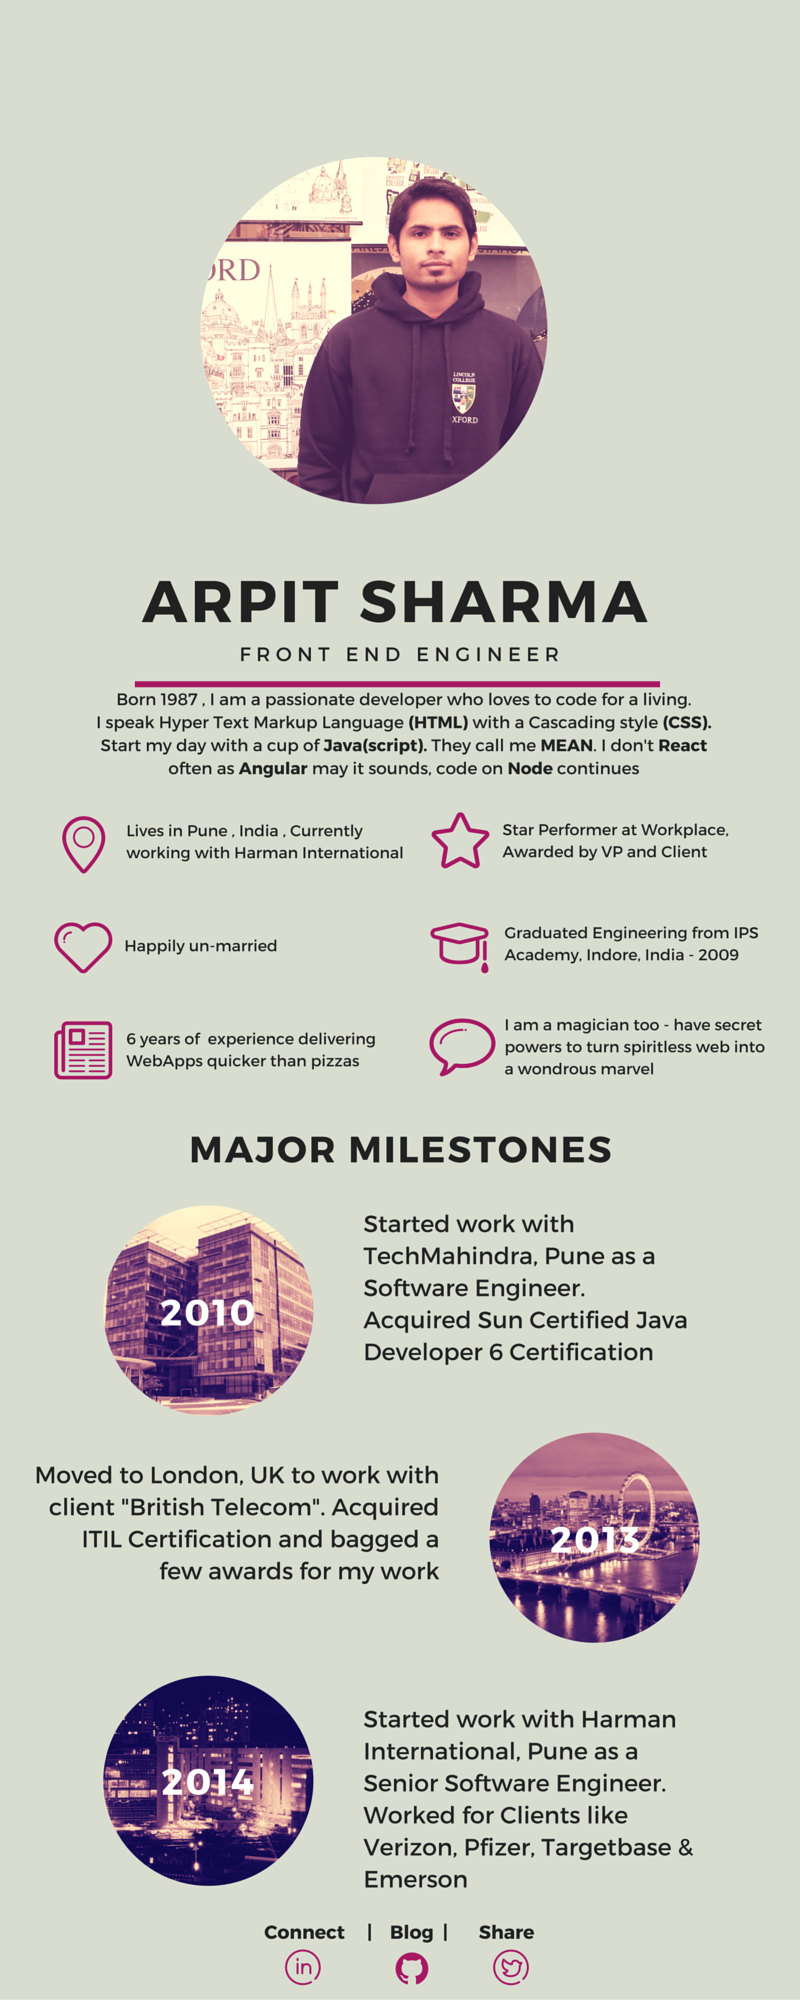
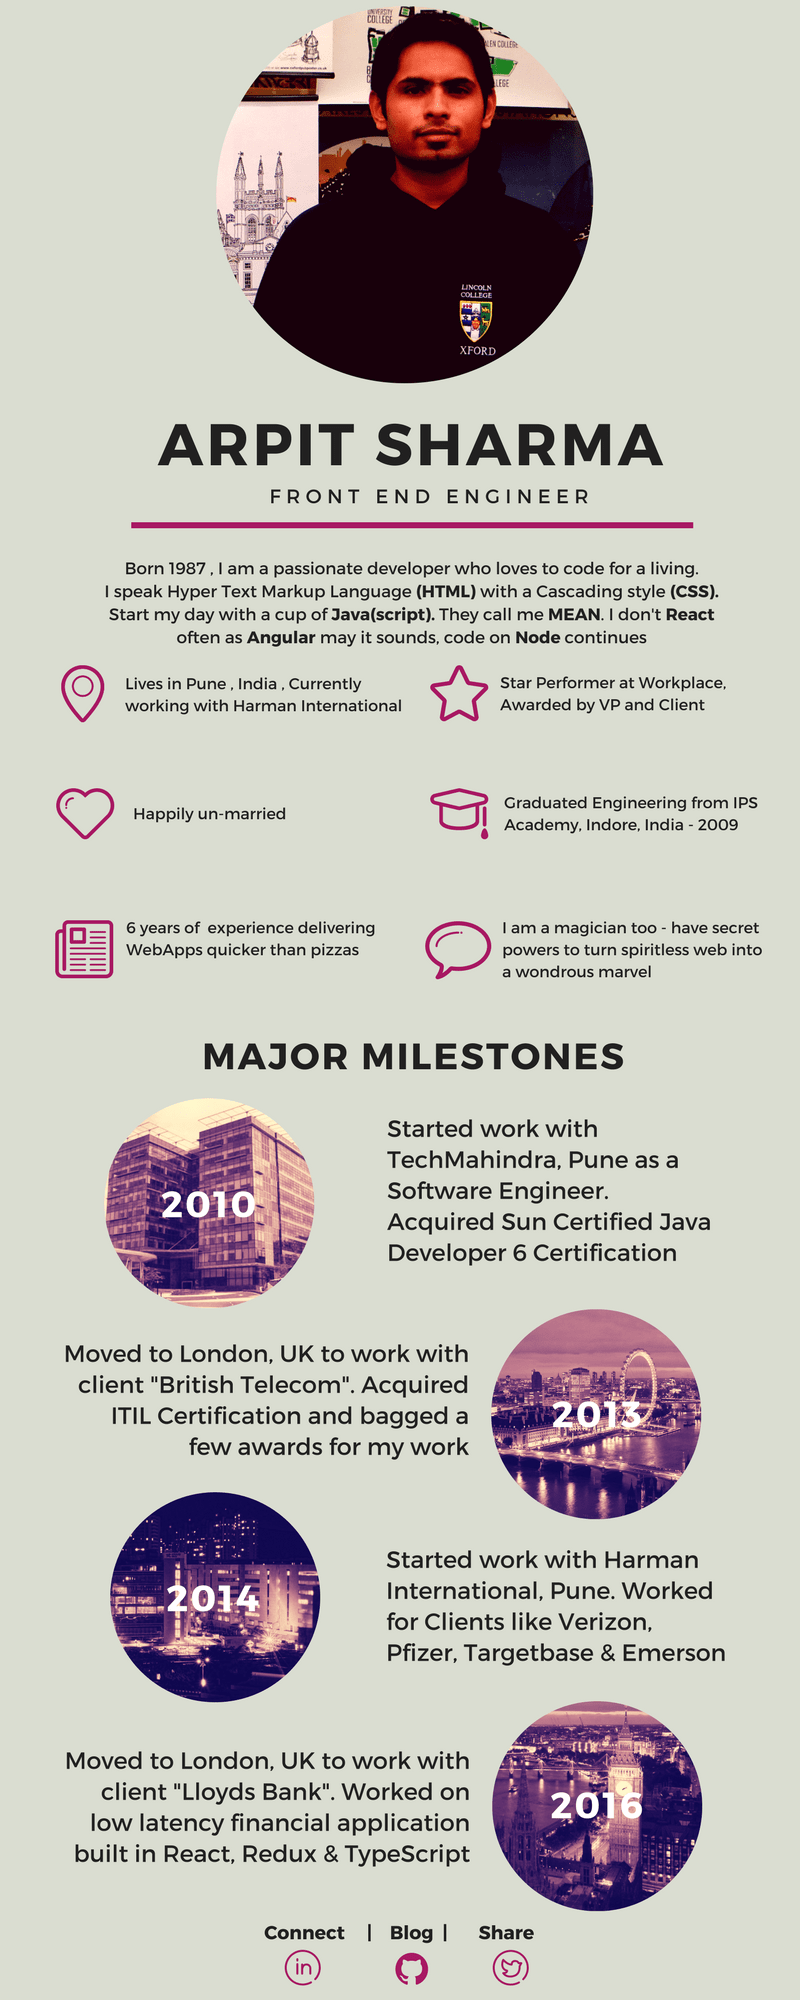
Updated pf image to include 2016 timeline

diff --git a/home.html b/home.html
@@ -1,140 +1,77 @@
 <!DOCTYPE html>
 <html>
+
 <head>
-	<title>Blog</title>
-	<link rel="stylesheet" type="text/css" href="assets/style.css">
-  <!-- commenting cdn, using cutom minified	<link rel="stylesheet" type="text/css" href="https://maxcdn.bootstrapcdn.com/bootstrap/3.3.6/css/bootstrap.min.css"> -->
-  <link rel="stylesheet" type="text/css" href="assets/bootstrap.min.css">
+    <title>Blog</title>
+    <link rel="stylesheet" type="text/css" href="assets/style.css">
+    <!-- commenting cdn, using cutom minified <link rel="stylesheet" type="text/css" href="https://maxcdn.bootstrapcdn.com/bootstrap/3.3.6/css/bootstrap.min.css"> -->
+    <link rel="stylesheet" type="text/css" href="assets/bootstrap.min.css">
 </head>
+
 <body>
-  <div class="container">
-   <div class="row">
-    <div class="profile-header-container">   
-      <div class="profile-header-img">
-        <img class="img-circle" src="assets/images/myimage.jpg" />
-        <!-- badge -->
-        <div class="rank-label-container">
-          <span class="label label-default rank-label">Arpit Sharma</span>
-        </div>
-      </div>
-    </div> 
-
-
-    <section>
-
-      <article>
-     <div class="page-header">
-          <h1>Difference between article and section</h1>
-          <p class="date-holder">Posted 05<sup>th</sup>April 2016</p>
-
-
-      <h3>Beginner's Trouble</h3>
-      <p>
-        Being a UI Developer is not an easy job, it often makes you wonder if you should follow the best practices or stay with whatever gets your job done quickly. 
-
-        While marking up this Blog I was faced with a challenge of using semantics over traditional div's. I decided to go with semantics. 
-        </br>
-        </br>
-        Now, to follow semantics, I thought W3C HTML5 specs would help me. But, Its an overdose of information for a regular UI developer like me. I then moved to WHATWG's live standard, though it's better than W3C but its still a lot of information to digest.</p>
-
-        <em> Do you understand this:</em>
-
-          <div class="quote-container">
-            <q class="quote-text"><i>The section element represents a generic section of a document or application. A section, in this context, is a thematic grouping of content. The theme of each section should be identified, typically by including a heading (h1-h6 element) as a child of the section element.</i></q>
-          </div>
-
-      <p>
-        Frankly above dint made much sense to me. I need either a one liner explanation or a real world example. Thankfully I found an article on iandevlin's blog which has a nice analogy of newspaper section and articles.
-
-        A newspaper has many sections like Politics, Finance , Editorial - which I avoid reading.
-        A section may contain  a few articles like "Minister A said xxx to Minister B" and "Minister B found roaming with A's wife" etc.  
-
-        A section can contain many articles and now the weired part: article may contain more sections followed by more articles. 
-        </br>
-        </br>
-        Nevertheless the newspaper analogy gives us a clear picture and easy to understand pattern for our use.
-
-        Below is how I arranged my sections :
-        </p>
-
-        <div class="image-container">
-          <img src="assets/images/sectionArticle.jpg" class="img-responsive">
-        </div>
-      <br>
-      <br>
-      Hope it helps.
-          
-      </div>
-      </article>
-      <div class="article-divider"></div>
-      <article>
-        <div class="page-header">
-          <h1>Difference between HTML4 & HTML5</h1>
-          <p class="date-holder">Posted 28<sup>th</sup>December 2015</p>
-
-
-
-           <h3>1. HTML5 Is a Work in Progress </h3>
-           <p>
-            As cool as it is to see what HTML5 can do for you, it hasn&#39;t been standardized like HTML4. You don&#39;t have to worry about updating pages built using HTML4. It&#39;s more than ten years old and it&#39;s a set standard.
-
-            If you jump into HTML5 with both feet, you&#39;re going to be making updates. Elements and attributes are added and modified several times a year. Of course, this is dependent how much you depend on rich elements, but it&#39;s certainly a risk you must take into consideration when using a fluid language.
-
-            Build with HTML4, play with HTML5.
-          </p>
-          <h3>2. Simplified Syntax </h3>
-
-          The simpler doctype declaration is just one of the many novelties in HTML5. Now you need to write only: <!doctype html> and this is it. The syntax of HTML5 is compatible with HTML4 and XHTML1, but not with SGML.
-
-          <h3>3. The New &lt;canvas&gt; Element </h3>
-
-          This is what killed Flash.
-
-          Although it isn&#39;t as … uh … flashy … most assume that it will eventually make Flash obsolete.
-
-          Only time will tell.
-
-          <h3>4. The &lt;header&gt; and &lt;footer&gt; Elements </h3>
-
-          For good or bad, HTML5 has acknowledged the new web anatomy. With HTML5, &lt;header&gt; and &lt;footer&gt; are specifically marked for such. Because of this, it is unnecessary to identify these two elements with a &lt;div&gt; tag.
-
-          <h3>5. New &lt;section&gt; and &lt;article&gt; Elements </h3>
-
-          Again, HTML5 has adopted the popular web standard. &lt;section&gt; and &lt;article&gt; allows you to mark specific areas of your layout as such, and should have a positive effect on on your SEO in the end.
-
-          <h3>6. New &lt;menu&gt; and &lt;figure&gt; Elements </h3>
-
-          &lt;menu&lt; can be used for your main menu, but it can also be used for toolbars and context menus. The &lt;figure&gt; element is another way to arrange text and images.
-
-          <h3>7. New &lt;audio&gt; and &lt;video&gt; Elements </h3>
-
-          Embedind audio and video has never been easier.
-
-          There are also some new multimedia elements and attributes, such as &lt;track&gt;, that provides text tracks for the video element. With these additions HTML5 is definitely getting more and more Web 2.0-friendly. The problem is that by the time HTML5 becomes widely accepted, Web 2.0 might be old news.
-
-          <h3>8. New Forms</h3>
-
-          The new &lt;form&gt; and &lt;forminput&gt; elements are looking good. If you do much with forms, you may want to take a look at what these have to offer. 
-
-          <h3>9. Kiss &lt;b&gt; and &lt;font&gt; Goodbye!</h3>
-
-          CSS, all the time.
-
-          All the time, CSS.
-          <br>
-          <small>
-            <a href="http://churchm.ag/differences-between-html4-html5/" style="color: inherit;">Reference</small>
-
-
+    <div class="container">
+        <div class="row">
+            <div class="profile-header-container">
+                <div class="profile-header-img">
+                    <img class="img-circle" src="assets/images/myimage.jpg" />
+                    <!-- badge -->
+                    <div class="rank-label-container">
+                        <span class="label label-default rank-label">Arpit Sharma</span>
+                    </div>
+                </div>
             </div>
-
-          </div>
+            <section>
+                <article>
+                    <div class="page-header">
+                        <h1>Difference between article and section</h1>
+                        <p class="date-holder">Posted 05<sup>th</sup>April 2016</p>
+                        <h3>Beginner's Trouble</h3>
+                        <p>
+                            Being a UI Developer is not an easy job, it often makes you wonder if you should follow the best practices or stay with whatever gets your job done quickly. While marking up this Blog I was faced with a challenge of using semantics over traditional div's. I decided to go with semantics. </p>
+                        <p>Now to follow semantics, I thought W3C HTML5 specs would help me. But, Its an overdose of information for a regular UI developer like me. I then moved to WHATWG's live standard, though it's better than W3C but its still a lot of information to digest.</p>
+                        <em> Do you understand this:</em>
+                        <div class="quote-container">
+                            <q class="quote-text"><i>The section element represents a generic section of a document or application. A section, in this context, is a thematic grouping of content. The theme of each section should be identified, typically by including a heading (h1-h6 element) as a child of the section element.</i></q>
+                        </div>
+                        <p>
+                            Frankly above dint made much sense to me. I need either a one liner explanation or a real world example. Thankfully I found an article on iandevlin's blog which has a nice analogy of newspaper section and articles. A newspaper has many sections like Politics, Finance , Editorial - which I avoid reading. A section may contain a few articles like "Minister A said xxx to Minister B" and "Minister B found roaming with A's wife" etc. A section can contain many articles and now the weired part: article may contain more sections followed by more articles.
+                            </br>
+                            </br>
+                            Nevertheless the newspaper analogy gives us a clear picture and easy to understand pattern for our use. Below is how I arranged my sections :
+                        </p>
+                        <div class="image-container">
+                            <img src="assets/images/sectionArticle.jpg" class="img-responsive">
+                        </div>
+                        <br>
+                        <br> Hope it helps.
+                    </div>
+                </article>
+                <div class="article-divider"></div>
+                <article>
+                    <div class="page-header">
+                        <h1>Difference between HTML4 & HTML5</h1>
+                        <p class="date-holder">Posted 28<sup>th</sup>December 2015</p>
+                        <h3>1. HTML5 Is a Work in Progress </h3>
+                        <p>
+                            As cool as it is to see what HTML5 can do for you, it hasn&#39;t been standardized like HTML4. You don&#39;t have to worry about updating pages built using HTML4. It&#39;s more than ten years old and it&#39;s a set standard. If you jump into HTML5 with both feet, you&#39;re going to be making updates. Elements and attributes are added and modified several times a year. Of course, this is dependent how much you depend on rich elements, but it&#39;s certainly a risk you must take into consideration when using a fluid language. Build with HTML4, play with HTML5.
+                        </p>
+                        <h3>2. Simplified Syntax </h3> The simpler doctype declaration is just one of the many novelties in HTML5. Now you need to write only:
+                        <!doctype html> and this is it. The syntax of HTML5 is compatible with HTML4 and XHTML1, but not with SGML.
+                        <h3>3. The New &lt;canvas&gt; Element </h3> This is what killed Flash. Although it isn&#39;t as … uh … flashy … most assume that it will eventually make Flash obsolete. Only time will tell.
+                        <h3>4. The &lt;header&gt; and &lt;footer&gt; Elements </h3> For good or bad, HTML5 has acknowledged the new web anatomy. With HTML5, &lt;header&gt; and &lt;footer&gt; are specifically marked for such. Because of this, it is unnecessary to identify these two elements with a &lt;div&gt; tag.
+                        <h3>5. New &lt;section&gt; and &lt;article&gt; Elements </h3> Again, HTML5 has adopted the popular web standard. &lt;section&gt; and &lt;article&gt; allows you to mark specific areas of your layout as such, and should have a positive effect on on your SEO in the end.
+                        <h3>6. New &lt;menu&gt; and &lt;figure&gt; Elements </h3> &lt;menu&lt; can be used for your main menu, but it can also be used for toolbars and context menus. The &lt;figure&gt; element is another way to arrange text and images.
+                        <h3>7. New &lt;audio&gt; and &lt;video&gt; Elements </h3> Embedind audio and video has never been easier. There are also some new multimedia elements and attributes, such as &lt;track&gt;, that provides text tracks for the video element. With these additions HTML5 is definitely getting more and more Web 2.0-friendly. The problem is that by the time HTML5 becomes widely accepted, Web 2.0 might be old news.
+                        <h3>8. New Forms</h3> The new &lt;form&gt; and &lt;forminput&gt; elements are looking good. If you do much with forms, you may want to take a look at what these have to offer.
+                        <h3>9. Kiss &lt;b&gt; and &lt;font&gt; Goodbye!</h3> CSS, all the time. All the time, CSS.
+                        <br>
+                        <small>
+        <a href="http://churchm.ag/differences-between-html4-html5/" style="color: inherit;">Reference</small>
+                    </div>
         </div>
-      </article>
-
+    </div>
+    </article>
     </section>
+</body>
 
-
-  </body>
-
-  </html>
+</html>
